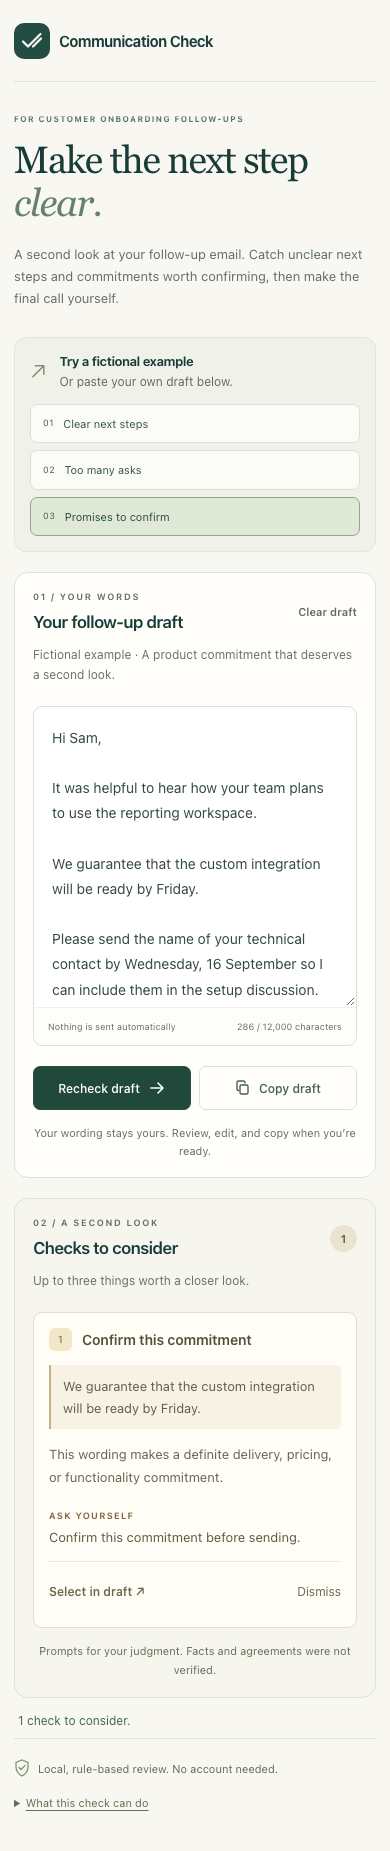
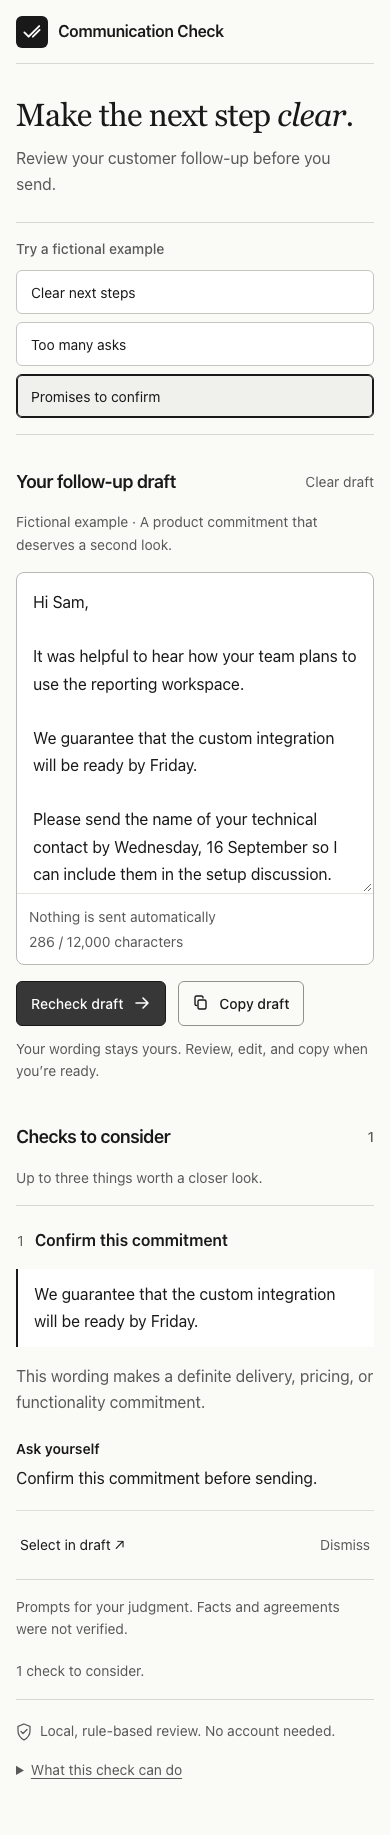
Record verified refresh preview and portfolio assets

diff --git a/docs/PROGRESS.md b/docs/PROGRESS.md
@@ -1,28 +1,28 @@
 # Communication Check progress
 
 Updated: 2026-09-11
-Milestone: authorised monochrome UI refresh and portfolio packaging started
-Status: local refresh and independent review passed; preview update next
+Milestone: monochrome UI refresh deployed and verified
+Status: refreshed preview and portfolio package ready; milestone handoff pending
 
 ## Current refresh checklist
 
 - [x] v0 direction reviewed — one proposal and one focused revision, using existing $5 monthly credit with v0 Mini. Only three fictional screenshots and design brief supplied; no purchase or repository connection.
 - [x] Presentation integrated — monochrome layout, 16px draft/body, 14px secondary text, 44px controls and 880px stacking; engine and original handlers preserved.
 - [x] Local checks and fresh independent review — 7 setup + 225 engine + 28 browser checks pass. Fresh Astra review found no material issues; focused checks at 320/880/881/1440px passed.
-- [ ] Preview updated and verified — previous deployment remains live.
-- [ ] Portfolio materials ready — Featured copy and SE conversation notes prepared; final screenshots and verification pending.
+- [x] Preview updated and verified — dep-dai10kbm8hqs73dnm68g, live 2026-09-11 14:29:50 UTC at 4931fe2f8968b0447c5e2872e520306aa0bb74b7; all 28 hosted checks pass.
+- [x] Portfolio materials ready — three verified hosted screenshots, Featured title/description/link/thumbnail, updated case study with all ten results, demo script and SE notes. Recording deferred.
 
-## Previously delivered
+## Current delivery
 
 - Canonical root: /Users/keith/Documents/ChatGPT/communication-check.
 - Private repository: https://github.com/keithtgrehan/communication-check. Branch: codex/communication-check-mvp. Existing draft PR #1: https://github.com/keithtgrehan/communication-check/pull/1; unmerged.
-- Working preview: https://communication-check-preview.onrender.com. Render deployment dep-dahdjffqj5pc73a9mhrg, live at 16:24:43 UTC from checkout 8a83afd46133abf07d7c0087fd09b222112b09d0. Later delivery edits are documentation/screenshots only.
+- Working preview: https://communication-check-preview.onrender.com. Render deployment dep-dai10kbm8hqs73dnm68g, live 2026-09-11 at 14:29:50 UTC from checkout 4931fe2f8968b0447c5e2872e520306aa0bb74b7. Later delivery edits are documentation/screenshots only.
 - Static React/Vite editor: five check families, up to three exact quotes, dismissal, edit/recheck, current-text copy, reset and three fictional demos. No rewriting, sending, scores or factual/agreement verification.
 - Reviewed runtime from d1230d6d066bc4a8eef9aa08d7818c1404d09c04; complete six-module manifest 6ad12d972791a07b8113294ad85a55b226d1eb9bce4b5690b20452c3e2ff0125.
-- Seven setup/integrity tests, 225 public engine tests, build/typecheck and 19 local browser checks pass. Independent review cleared five original regressions and 20 focused probes. Original 18 development fixtures are unchanged.
-- All 19 hosted Chromium checks pass. Six assets match the local build byte-for-byte; six response headers and eight source/config exclusions pass. See docs/HOSTED_VERIFICATION.json and docs/VERIFICATION.md.
+- Seven setup/integrity tests, 225 public engine tests, build/typecheck and 28 local browser checks pass. Independent review cleared five original regressions and 20 focused probes. Original 18 development fixtures are unchanged.
+- All 28 hosted Chromium checks pass. Six assets match the local build byte-for-byte; six response headers and eight source/config exclusions pass. See docs/HOSTED_VERIFICATION.json and docs/VERIFICATION.md.
 - Browser coverage includes exact evidence, editing/dismissal, clipboard success/denial, keyboard, 320/390/1440px layouts, 200% content zoom, runtime network/storage/log canaries, reload clearing and offline use. Automated checks are not physical-device testing or accessibility certification.
-- Portfolio case study, reusable project copy, desktop/mobile/clean screenshots, 75-second demo, README, reuse ledger, third-party notices, human-validation protocol and rollback instructions are ready. The screenshots use fictional demos and were visually inspected. Six pinned inactive Vibe source blobs remain unchanged and excluded from runtime.
+- Portfolio case study, reusable project copy, desktop/mobile/clean screenshots, 75-second demo script, SE conversation notes, README, reuse ledger, third-party notices, human-validation protocol and rollback instructions are ready. The screenshots use fictional demos and were visually inspected. Six pinned inactive Vibe source blobs remain unchanged and excluded from runtime.
 
 ## Explicit scope decision
 
@@ -64,10 +64,11 @@ unchanged. Full aggregate history: docs/EVALUATION.md.
 
 - The lead is associated with the correct local project; use the canonical root explicitly. Native app self-control restrictions remain in place.
 - ChatGPT project instructions are saved. The final 16:28 UTC portfolio Sources snapshot was uploaded and verified ready before the earlier 16:02 source was removed. Task-message delivery and Sources updates remain separate milestone actions, not continuous sync.
-- Refreshed 16:24 UTC Render allowance: Hobby, 4/25 services, 6 MB/5 GB bandwidth, 0/500 pipeline minutes displayed, $0.00 preview/pipeline charges. Auto-deploy is off; rollback target is dep-dahblp5bedkc739vpj90 at 10d4e76. No billing, plan, domain or unrelated service changes.
+- Refreshed 2026-09-11 14:27 UTC Render allowance: Hobby, 4/25 services, 8 MB/5 GB bandwidth, 0/500 pipeline minutes displayed, $0.00 preview/pipeline charges. Auto-deploy is off; rollback target is dep-dahdjffqj5pc73a9mhrg at 8a83afd. No billing, plan, domain or unrelated service changes.
 - Repository stays private and PR stays draft/unmerged. No separate portfolio website, public product launch, paid commitment or external outreach has been published.
 
 ## Next action
 
-Finish independent review, update the existing preview and verify hosted behaviour,
-then capture final screenshots and deliver the portfolio package.
+Deliver the allowlisted milestone handoff, then Keith reviews the preview and
+prepared Featured package. Publication requires separate approval; no further
+engine research or design round is started.

diff --git a/docs/VERIFICATION.md b/docs/VERIFICATION.md
@@ -287,3 +287,18 @@ before prototype implementation or challenge creation/freeze/execution.
 - Fresh desktop/mobile/clean screenshots use the built-in fictional demos on this deployment. Desktop and mobile images were visually inspected with no layout issue identified.
 - The app is delivered as a functional portfolio prototype. All ten original detection failures remain, latest 4/12. The known language-coverage limitation is disclosed; no general reliability, human usefulness or production-readiness claim is made. Human sessions remain 0/3 and pilots 0/5.
 - Separate preview only; repository private, PR #1 draft and unmerged. No public product launch, domain, billing or unrelated service changes.
+
+## Monochrome refresh delivery — 11 September 2026
+
+This is the current delivery record. The engine and all ten original failed
+detection results remain unchanged; there were no new evaluation rounds.
+
+- Reviewed/deployed checkout: 4931fe2f8968b0447c5e2872e520306aa0bb74b7.
+- Full engine manifest: 6ad12d972791a07b8113294ad85a55b226d1eb9bce4b5690b20452c3e2ff0125; unchanged from the prior portfolio version. App handlers/state before JSX, demos and dependencies are unchanged.
+- Full local validation: 7 setup/integrity checks, 225 engine tests, typecheck/build/source guards and 28 Chromium checks pass.
+- Fresh independent Astra Extra High review found no material issues. It inspected five state screenshots and ran focused 320/880/881/1440px probes covering layout, exact selection, stale invalidation, current-text copy and axe. Detailed scope/limits: docs/UI_REFRESH.md.
+- Generic checker error was tested using an ignored isolated build alias, without a production debug seam: draft retention/retry, absent stale findings, edit recovery and zero axe violations. Disabled text contrast: 5.49–5.70:1.
+- Render dep-dai10kbm8hqs73dnm68g became live at 14:29:50 UTC. All six assets match the local build; six HTTP headers and eight excluded-path 404s pass. Machine-readable evidence: docs/HOSTED_VERIFICATION.json.
+- All 28 hosted Chromium checks pass in 35.9 seconds: 320/390/879/881/1440px, 44px controls, long-quote wrapping, initial primary action at 1440×900, secondary states/keyboard/axe, 200% content zoom, all three real-engine demos, exact evidence at long-draft beginning/middle/end, editing, dismissal, current-copy/refusal, runtime canary network/storage/log checks, offline use and reload clearing.
+- Automated Chromium and agent inspection are not physical-device or assistive-technology testing, accessibility certification, general-language accuracy or human validation. No production-reliability claim is made.
+- Final hosted desktop/mobile/clean screenshots were captured after verification and visually inspected. The scripted guarantee edit, stale clearing, recheck and current-copy flow passed on the hosted candidate. Recording is deferred.

diff --git a/docs/HOSTING.md b/docs/HOSTING.md
@@ -1,6 +1,6 @@
 # Separate preview and rollback
 
-Status: existing portfolio preview is live; the authorised monochrome refresh is in final local review. Engine research is stopped for this delivery.
+Status: monochrome portfolio preview is live and verified. Engine research is stopped for this delivery.
 
 ## Verified hosting basis — 2026-09-10
 
@@ -125,7 +125,7 @@ Local fallback: `npm run build` then `npm run preview`, opening http://127.0.0.1
 - This is an interim review preview: all seven fresh evaluations have failed the detection requirement, so engineering completion remains unclaimed.
 
 
-## Current portfolio preview
+## Previous portfolio preview — 10 September
 
 - URL: https://communication-check-preview.onrender.com
 - Source checkout: 8a83afd46133abf07d7c0087fd09b222112b09d0; reviewed runtime from d1230d6d066bc4a8eef9aa08d7818c1404d09c04.
@@ -146,3 +146,12 @@ The existing static preview remains on the intended repository/branch with
 auto-deploy and PR previews off. Rollback for the forthcoming visual refresh is
 verified deployment dep-dahdjffqj5pc73a9mhrg at
 8a83afd46133abf07d7c0087fd09b222112b09d0.
+
+## Current monochrome portfolio preview — 11 September
+
+- Source checkout: 4931fe2f8968b0447c5e2872e520306aa0bb74b7. Engine manifest unchanged at 6ad12d972791a07b8113294ad85a55b226d1eb9bce4b5690b20452c3e2ff0125.
+- Deployment: dep-dai10kbm8hqs73dnm68g, live 2026-09-11 14:29:50 UTC, on the same static service/provider URL.
+- Six exact asset hashes, six response headers and eight excluded source/config paths pass. All 28 hosted Chromium checks pass (35.9 seconds).
+- Rollback: dep-dahdjffqj5pc73a9mhrg at 8a83afd46133abf07d7c0087fd09b222112b09d0. Use this service's Events rollback action and reverify assets and hosted checks.
+- Automatic deploys and PR previews remain off; no hosting configuration, plan, billing, domain or unrelated service changes. Allowance inspected above before deployment.
+- Private source and separate noindex preview; no main merge or public launch. All ten detection failures remain preserved.

diff --git a/README.md b/README.md
@@ -14,9 +14,9 @@ rewrite the draft, assign a score or send email.
 ## Current evidence
 
 This is a functional portfolio prototype. The reviewed implementation passes
-225 engine tests, seven setup/integrity checks, build/typecheck and 19 local browser
+225 engine tests, seven setup/integrity checks, build/typecheck and 28 local browser
 checks. The [working preview](https://communication-check-preview.onrender.com)
-now serves that reviewed version. All 19 hosted browser checks pass, and all six
+now serves that reviewed version. All 28 hosted browser checks pass, and all six
 assets match the local build. Portfolio delivery is ready; see the
 [case study](docs/CASE_STUDY.md) and [portfolio copy](docs/PORTFOLIO_COPY.md).
 
@@ -91,7 +91,7 @@ not real-world accuracy. Human sessions and pilots are outstanding.
 - [Product brief](docs/PRODUCT_BRIEF.md) and [implementation plan](docs/IMPLEMENTATION_PLAN.md).
 - [Working instructions](AGENTS.md), [GPT/Codex workflow](docs/WORKFLOW.md) and [goal prompt](docs/GOAL_PROMPT.md).
 - [Finding contract](docs/FINDING_CONTRACT.md), [reuse ledger](docs/REUSE_LEDGER.md) and [third-party notices](THIRD_PARTY_NOTICES.md).
-- [Screenshots](docs/screenshots/README.md), [case study](docs/CASE_STUDY.md), [75-second demo](docs/DEMO_SCRIPT.md), [human validation protocol](docs/HUMAN_VALIDATION.md) and [hosting/rollback](docs/HOSTING.md).
+- [Screenshots](docs/screenshots/README.md), [case study](docs/CASE_STUDY.md), [75-second demo script](docs/DEMO_SCRIPT.md), [SE conversation notes](docs/SE_CONVERSATION_NOTES.md), [human validation protocol](docs/HUMAN_VALIDATION.md) and [hosting/rollback](docs/HOSTING.md).
 
 The authoritative root is `/Users/keith/Documents/ChatGPT/communication-check`.
 `reference/vibe-signal/` contains six audited inactive source blobs; it is not

diff --git a/docs/UI_REFRESH.md b/docs/UI_REFRESH.md
@@ -33,8 +33,8 @@ that the refresh passes. Existing state accessibility checks pass.
 - [x] v0 direction reviewed.
 - [x] Local integration and full validation complete: 7 setup, 225 engine and 28 browser checks; typecheck/build and source guards pass.
 - [x] Fresh independent Astra Extra High review cleared with no material findings.
-- [ ] Existing Render preview updated and verified.
-- [ ] Final screenshots, portfolio copy and milestone handoff complete.
+- [x] Existing Render preview updated and verified: reviewed commit 4931fe2, six assets/headers, eight exclusions and all 28 hosted browser checks pass.
+- [x] Final screenshots and portfolio copy complete; milestone handoff is the final delivery step.
 
 LinkedIn publication, recording upload and outreach remain unauthorised. Recording
 is optional and deferred until required materials are ready.
@@ -60,3 +60,11 @@ gap, no overflow, exact selection, stale invalidation, current-text copy and axe
 checks passed. The primary action fits the initial 1440×900 viewport. This review
 relied on the full local suite for comprehensive privacy/engine coverage and did
 not include hosted, physical-device or assistive-technology verification.
+
+## Hosted assets and package
+
+Three final screenshots were captured only after all 28 hosted checks passed and
+were visually inspected. The demo script edit/recheck/current-copy flow passed
+on the hosted candidate. Featured title, description, demo link and desktop
+thumbnail, case study with all ten failed results, script and SE notes are ready.
+Recording is deferred. Nothing has been posted to LinkedIn or sent as outreach.

diff --git a/docs/screenshots/README.md b/docs/screenshots/README.md
@@ -1,12 +1,18 @@
 # Portfolio screenshots
 
-Captured 2026-09-10 from https://communication-check-preview.onrender.com at
-checkout 8a83afd46133abf07d7c0087fd09b222112b09d0, deployment
-dep-dahdjffqj5pc73a9mhrg. Fictional built-in demos only, using the same engine as
-pasted drafts. Desktop viewport 1440px; mobile viewport 390px. Desktop and mobile
+Captured 2026-09-11 from https://communication-check-preview.onrender.com after
+all 28 hosted browser checks and exact asset verification passed.
+Checkout: 4931fe2f8968b0447c5e2872e520306aa0bb74b7.
+Deployment: dep-dai10kbm8hqs73dnm68g, live 14:29:50 UTC.
+
+Fictional built-in demos only, using the same engine as pasted drafts. Desktop
+viewport 1440×900 and mobile 390×844; images capture the full page. All three
 captures were visually inspected. These are browser emulations, not physical-device
 or human usability tests. Detection remains experimental; see ../EVALUATION.md.
 
-- [Desktop review](desktop-review.png) — primary portfolio image.
+- [Desktop review](desktop-review.png) — primary portfolio image and Featured thumbnail.
 - [Mobile review](mobile-review.png) — responsive interaction.
 - [Clean result](clean-result.png) — honest empty state.
+
+The demo script's actual edit/recheck/current-copy flow was also verified on this
+hosted candidate. A video recording was deferred; these files are screenshots.

diff --git a/docs/SE_CONVERSATION_NOTES.md b/docs/SE_CONVERSATION_NOTES.md
@@ -74,9 +74,10 @@ Use Promises to confirm → Check → Select in draft → edit the guarantee →
 → Copy. Then show Clear next steps and explain its caveat. Practise with the
 existing demo script after the final UI is verified. A recording is optional.
 
-The 10 September verification record reports 225 engine tests, seven setup checks
-and 19 local plus 19 hosted browser checks. Those are baseline engineering results;
-the refreshed interface requires its own verification before presenting new claims.
+The 11 September refresh passes 225 engine tests, seven setup checks and 28 local
+plus 28 hosted browser checks. Fresh independent review found no material issues;
+six deployed assets match the reviewed build. These are engineering results,
+not evidence of broad language accuracy or customer usefulness.
 
 ## Publication boundary
 

diff --git a/docs/CASE_STUDY.md b/docs/CASE_STUDY.md
@@ -50,8 +50,8 @@ path. Product direction and decisions were coordinated with Codex/Astra agents;
 this was an AI-assisted build.
 
 The reviewed implementation passes 225 engine tests, seven setup/integrity checks,
-and 19 local browser checks covering editing, clipboard, exact evidence, keyboard,
-responsive layout and runtime privacy behaviour. The same 19 checks pass on the hosted preview; six deployed assets match the
+and 28 local browser checks covering editing, clipboard, exact evidence, keyboard,
+responsive layout and runtime privacy behaviour. The same 28 checks pass on the hosted preview; six deployed assets match the
 reviewed local build. Automated browser checks are not a full
 accessibility certification or human usability study.
 

diff --git a/docs/PORTFOLIO_COPY.md b/docs/PORTFOLIO_COPY.md
@@ -39,5 +39,6 @@ and no completed customer validation.
 - Clean-result screenshot demonstrates that no flags does not verify facts.
 - Existing case study: CASE_STUDY.md; walkthrough: DEMO_SCRIPT.md.
 - Conversation preparation: SE_CONVERSATION_NOTES.md.
-- The monochrome refresh and its final screenshots are pending; the existing preview and screenshots show the prior design.
+- The monochrome preview and all three hosted screenshots are verified, 11 September 2026. Use desktop-review.png as the Featured thumbnail.
+- Video recording is deferred; the 75-second script is ready.
 - This copy is prepared, not posted. LinkedIn publication, video upload and outreach require separate authorisation. No separate portfolio site has been changed.
